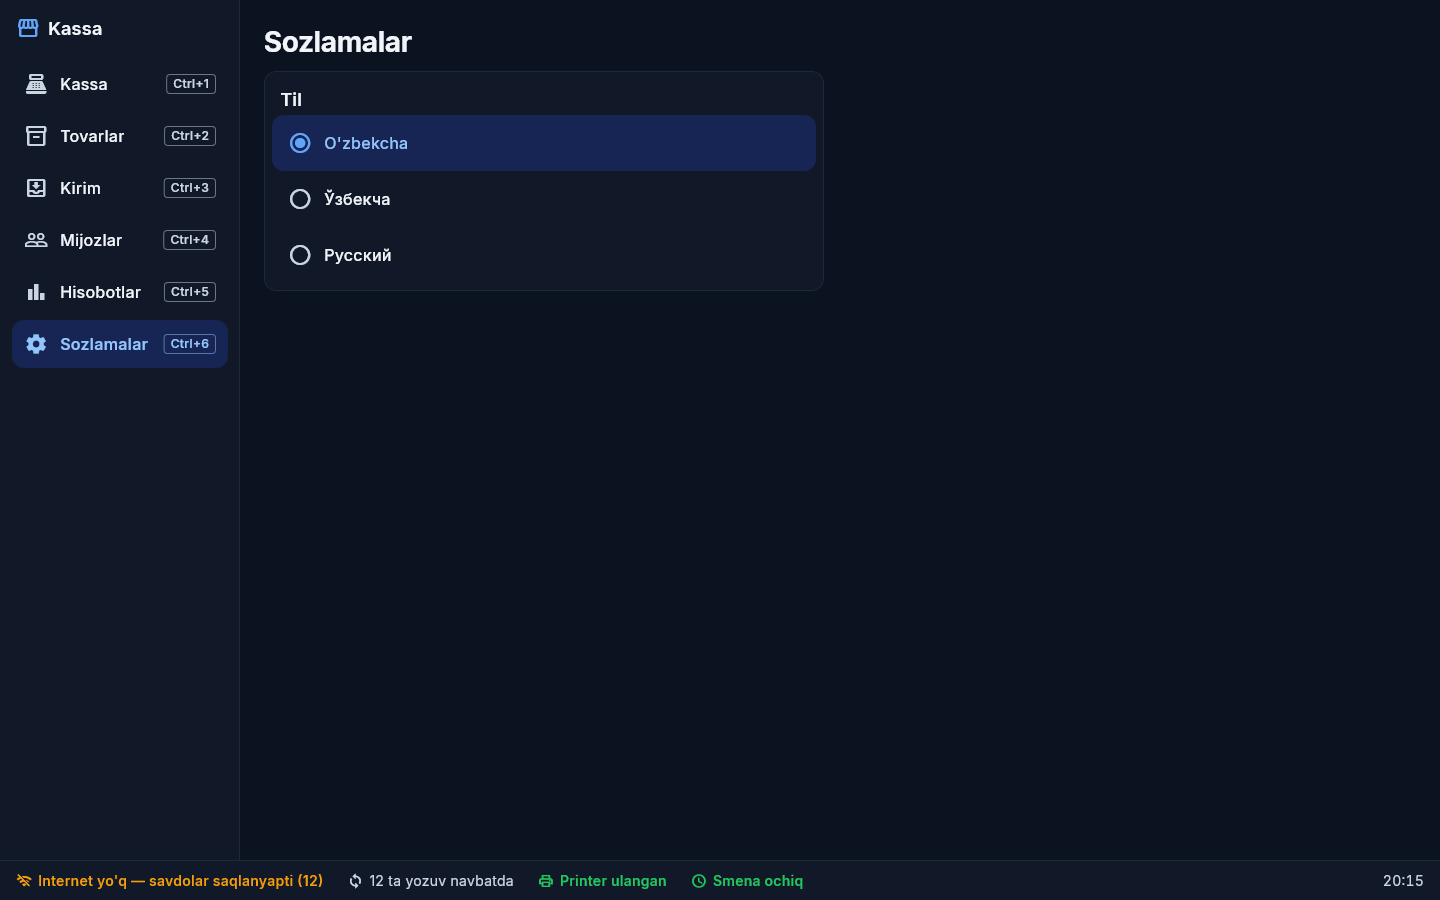
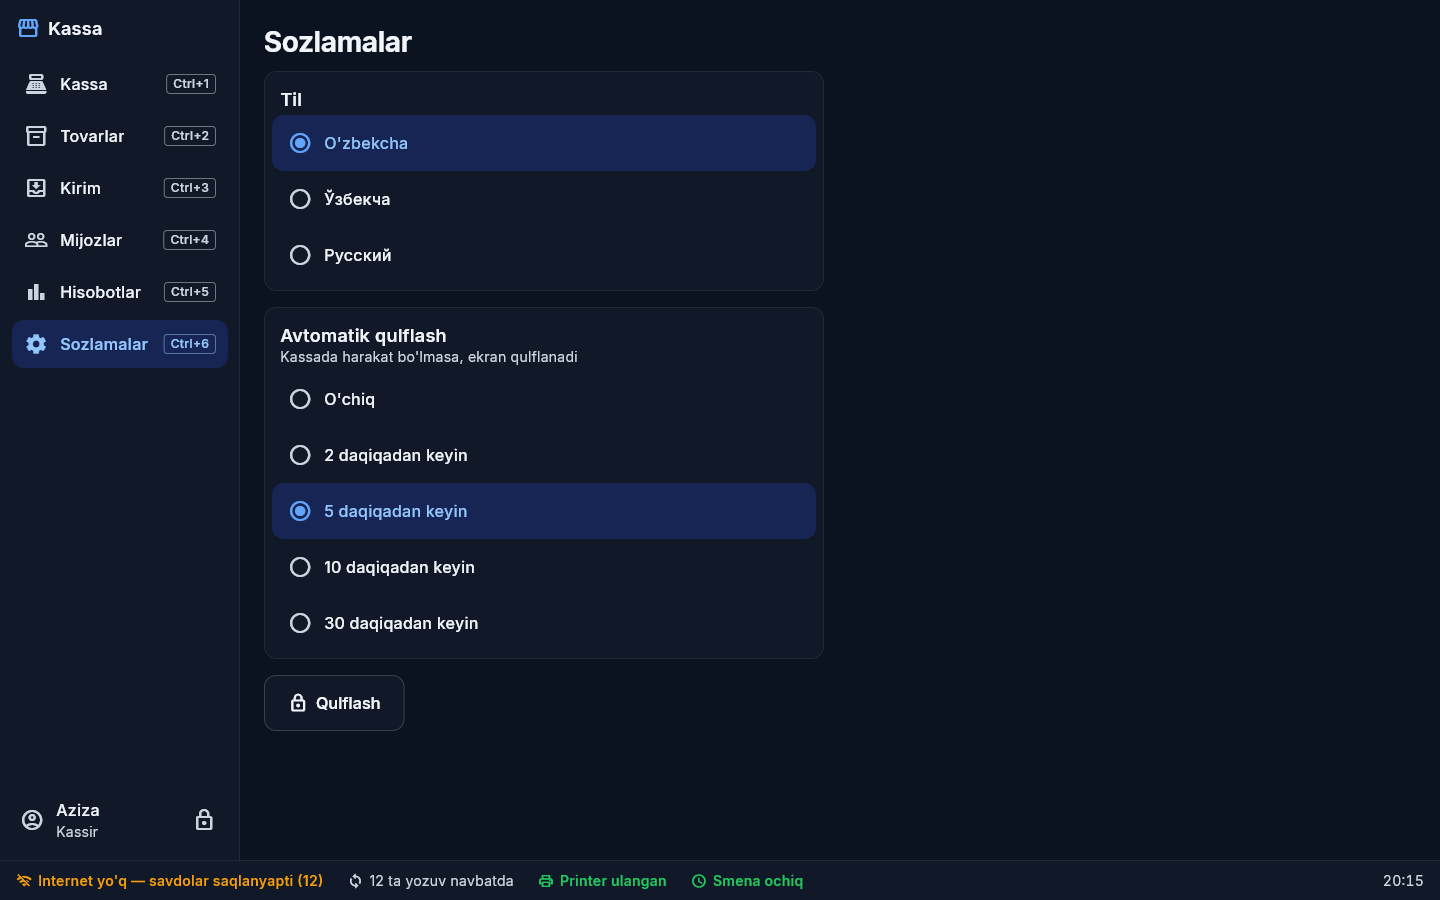
feat(pos): T-034 device setup, first sync, PIN login, auto-lock

diff --git a/apps/pos/test/goldens/app_shell_golden_test.dart b/apps/pos/test/goldens/app_shell_golden_test.dart
@@ -1,66 +1,32 @@
-import 'package:flutter/foundation.dart';
-import 'package:flutter/material.dart';
 import 'package:flutter/services.dart';
-import 'package:flutter_test/flutter_test.dart';
-import 'package:pos_app/app/app.dart';
 import 'package:pos_app/app/status/app_status.dart';
 
 import '../helpers/pump_app.dart';
+import 'golden_helpers.dart';
 
-/// Ilova qobig'i: telefon 390×844, planshet 1024×768, desktop 1440×900;
-/// yorug' va qorong'i (CLAUDE.md, 5-band).
-const Map<String, (Size, TargetPlatform)> devices = {
-  'phone': (Size(390, 844), TargetPlatform.android),
-  'tablet': (Size(1024, 768), TargetPlatform.android),
-  'desktop': (Size(1440, 900), TargetPlatform.windows),
-};
-
+/// Ilova qobig'i: kassa va sozlamalar.
 void main() {
-  for (final MapEntry(key: device, value: (size, platform))
-      in devices.entries) {
-    for (final dark in [false, true]) {
-      final theme = dark ? 'dark' : 'light';
-
-      for (final page in ['pos', 'settings']) {
-        testWidgets('$device $theme $page', (tester) async {
-          debugDisableShadows = false;
-          debugDefaultTargetPlatformOverride = platform;
-          tester.platformDispatcher.platformBrightnessTestValue = dark
-              ? Brightness.dark
-              : Brightness.light;
-          try {
-            await pumpPosApp(
-              tester,
-              size: size,
-              overrides: [
-                connectionStatusProvider.overrideWithValue(
-                  ConnectionStatus.offline,
-                ),
-                printerStatusProvider.overrideWithValue(PrinterStatus.ready),
-                pendingEventsProvider.overrideWith((ref) => Stream.value(12)),
-                shiftOpenProvider.overrideWith((ref) => Stream.value(true)),
-                clockProvider.overrideWithValue(
-                  () => DateTime.utc(2026, 10, 14, 15, 15),
-                ),
-              ],
-            );
-            if (page == 'settings') {
-              await tester.sendKeyDownEvent(LogicalKeyboardKey.controlLeft);
-              await tester.sendKeyEvent(LogicalKeyboardKey.digit6);
-              await tester.sendKeyUpEvent(LogicalKeyboardKey.controlLeft);
-              await tester.pumpAndSettle();
-            }
-            await expectLater(
-              find.byType(PosApp),
-              matchesGoldenFile('app_shell/${page}_${device}_$theme.png'),
-            );
-          } finally {
-            debugDisableShadows = true;
-            debugDefaultTargetPlatformOverride = null;
-            tester.platformDispatcher.clearPlatformBrightnessTestValue();
-          }
-        });
+  for (final page in ['pos', 'settings']) {
+    goldenAcrossDevices('app_shell', page, (tester, size) async {
+      await pumpPosApp(
+        tester,
+        size: size,
+        overrides: [
+          connectionStatusProvider.overrideWithValue(ConnectionStatus.offline),
+          printerStatusProvider.overrideWithValue(PrinterStatus.ready),
+          pendingEventsProvider.overrideWith((ref) => Stream.value(12)),
+          shiftOpenProvider.overrideWith((ref) => Stream.value(true)),
+          clockProvider.overrideWithValue(
+            () => DateTime.utc(2026, 10, 14, 15, 15),
+          ),
+        ],
+      );
+      if (page == 'settings') {
+        await tester.sendKeyDownEvent(LogicalKeyboardKey.controlLeft);
+        await tester.sendKeyEvent(LogicalKeyboardKey.digit6);
+        await tester.sendKeyUpEvent(LogicalKeyboardKey.controlLeft);
+        await tester.pumpAndSettle();
       }
-    }
+    });
   }
 }

diff --git a/apps/pos/test/goldens/auth_golden_test.dart b/apps/pos/test/goldens/auth_golden_test.dart
@@ -1,0 +1,77 @@
+import 'package:drift/drift.dart' show Value;
+import 'package:flutter_test/flutter_test.dart';
+import 'package:pos_app/app/session/pin_gate.dart';
+import 'package:pos_app/app/session/session.dart';
+import 'package:pos_app/data/db/app_database.dart';
+
+import '../helpers/pump_app.dart';
+import '../helpers/sqlite.dart';
+import 'golden_helpers.dart';
+
+Future<AppDatabase> _staff() async {
+  final db = openTestDatabase();
+  for (final (id, name, role, hasPin) in [
+    ('u1', 'Aziza Karimova', 'cashier', true),
+    ('u2', 'Bobur', 'manager', true),
+    ('u3', 'Dilnoza', 'cashier', false),
+    ('u4', 'Aziz Rahimov', 'owner', true),
+  ]) {
+    await db
+        .into(db.staffUsers)
+        .insert(
+          StaffUsersCompanion.insert(
+            id: id,
+            fullName: name,
+            role: role,
+            pinHash: Value(hasPin ? 'hash' : null),
+          ),
+        );
+  }
+  return db;
+}
+
+/// Kirish ekranlari: ulash, xodim tanlash, PIN (xato bilan).
+void main() {
+  goldenAcrossDevices('auth', 'setup', (tester, size) async {
+    await pumpPosApp(
+      tester,
+      size: size,
+      session: const Session(stage: SessionStage.setup),
+    );
+  });
+
+  goldenAcrossDevices('auth', 'lock_users', (tester, size) async {
+    final db = await _staff();
+    addTearDown(db.close);
+    await pumpPosApp(
+      tester,
+      size: size,
+      db: db,
+      session: const Session(stage: SessionStage.locked, device: testDevice),
+    );
+  });
+
+  goldenAcrossDevices('auth', 'lock_pin', (tester, size) async {
+    final db = await _staff();
+    addTearDown(db.close);
+    await pumpPosApp(
+      tester,
+      size: size,
+      db: db,
+      session: const Session(stage: SessionStage.locked, device: testDevice),
+      overrides: [
+        pinGateProvider.overrideWith(
+          (ref) => PinGate(db, verify: (_, _) async => false),
+        ),
+      ],
+    );
+    await tester.tap(find.text('Aziza Karimova'));
+    await tester.pumpAndSettle();
+    for (final d in ['1', '1', '1', '1']) {
+      await tester.tap(find.text(d).last);
+    }
+    await tester.tap(find.bySemanticsLabel('Kirish'));
+    await tester.pumpAndSettle();
+    expect(find.textContaining("PIN noto'g'ri"), findsOneWidget);
+  });
+}

diff --git a/apps/pos/test/goldens/golden_helpers.dart b/apps/pos/test/goldens/golden_helpers.dart
@@ -1,0 +1,44 @@
+import 'package:flutter/foundation.dart';
+import 'package:flutter/material.dart';
+import 'package:flutter_test/flutter_test.dart';
+import 'package:pos_app/app/app.dart';
+
+/// Golden o'lchamlari: telefon, planshet, desktop (CLAUDE.md, 5-band).
+const Map<String, (Size, TargetPlatform)> goldenDevices = {
+  'phone': (Size(390, 844), TargetPlatform.android),
+  'tablet': (Size(1024, 768), TargetPlatform.android),
+  'desktop': (Size(1440, 900), TargetPlatform.windows),
+};
+
+/// Har o'lcham × yorug'/qorong'i uchun test: [body] ilovani ochadi va
+/// kerakli holatga keltiradi, keyin `<dir>/<name>_<device>_<theme>.png`.
+void goldenAcrossDevices(
+  String dir,
+  String name,
+  Future<void> Function(WidgetTester tester, Size size) body,
+) {
+  for (final MapEntry(key: device, value: (size, platform))
+      in goldenDevices.entries) {
+    for (final dark in [false, true]) {
+      final theme = dark ? 'dark' : 'light';
+      testWidgets('$name $device $theme', (tester) async {
+        debugDisableShadows = false;
+        debugDefaultTargetPlatformOverride = platform;
+        tester.platformDispatcher.platformBrightnessTestValue = dark
+            ? Brightness.dark
+            : Brightness.light;
+        try {
+          await body(tester, size);
+          await expectLater(
+            find.byType(PosApp),
+            matchesGoldenFile('$dir/${name}_${device}_$theme.png'),
+          );
+        } finally {
+          debugDisableShadows = true;
+          debugDefaultTargetPlatformOverride = null;
+          tester.platformDispatcher.clearPlatformBrightnessTestValue();
+        }
+      });
+    }
+  }
+}

diff --git a/docs/PROGRESS.md b/docs/PROGRESS.md
@@ -141,3 +141,10 @@ Har vazifa yoki sessiya oxirida agent shu faylning oxiriga yozadi:
 - PR: T-033 (squash merge)
 - Qoldi / keyingi qadam: T-034 Kirish, qurilmani ulash, PIN ekrani. Internet/printer holati — T-035/T-044 da haqiqiy manbaga ulanadi (`connectionStatusProvider`, `printerStatusProvider`).
 - Muammo yoki qaror: go_router bo'lim navigatorlari fokus doirasi `closedLoop` — Tab bo'lim ichida aylanadi, yon panelga chiqmaydi (global `requestFocus: false` dialoglar fokusini buzadi). Shuning uchun bo'limlararo klaviatura — Ctrl+1…6. Telefonda `NavigationBar` "Sozlamalar" ni ikki qatorga bo'lardi → o'z paneli. Testda `runAsync` + drift stream osilib qoldi → bazaga yozish to'g'ridan-to'g'ri test tanasida.
+
+## 2026-10-14 — T-034 Kirish, qurilmani ulash, PIN ekrani
+- Qilindi: Dart API klient generatsiyasi sozlandi (`packages/api_client_dart`: swagger_parser + retrofit + json_serializable; auth, devices, sync). API faqat JSON (`DEFAULT_PARSER_CLASSES`) — generator multipart tanlamasin; `openapi.yaml` va admin `schema.d.ts` yangilandi. Kassada: `DeviceRegistration` (login → register, qayta urinishda o'sha ID, token `flutter_secure_storage` da), `PullApplier`/`SyncPuller` (barcha pull entity'lari, sahifa bitta tranzaksiyada, kursor/obuna/`offline_grace_until`/soat farqi), `PinHash` (PBKDF2, server vektorlari), `PinGate` (5 xato → 60 s, bazada), `Session` (setup → initialSync → locked → unlocked) va router redirect, `SetupScreen` (3 qadam + sinxron progress + qayta urinish), `LockScreen` (xodim tanlash + PinPad, fizik klaviatura, Esc), `AutoLock` (sozlanadigan), qobiqda xodim va qulf tugmasi. `PosPinPad`/`PosNumericKeypad` — ✓ tasdiqlash tugmasi (4–6 raqamli PIN).
+- Testlar: apps/pos 130 (+56): ro'yxatdan o'tish (xatolar, qayta urinish), pull (har entity, server g'olib, shtrix-kod ko'chishi, soft/hard delete, noma'lum entity, atomarlik, sahifalash, tarmoq uzilishi), PIN (RFC vektori, server vektorlari, noto'g'ri/buzilgan xesh, isolate), kirish oqimi end-to-end soxta server bilan, PIN 5 xato → kutish → tugashi, avtomatik qulflash, loadSession; 18 auth golden + 12 shell golden yangilandi. ui 133 (+2).
+- PR: T-034 (squash merge)
+- Qoldi / keyingi qadam: T-035 Sinxronlash dvigateli — push (outbox), fon tsikli (10 s / 60 s), ulanish kuzatuvi, eksponensial kutish, `readonly` rejim. Pull qismi shu vazifada qilindi (birinchi sinxron uchun kerak edi).
+- Muammo yoki qaror: swagger_parser bir nechta content-type bo'lsa multipart'ni tanlaydi → server JSON-only. PIN uzunligi xeshdan noma'lum → ✓/Enter bilan tasdiqlash. Widget testlarda PIN tekshiruvi soxta (`PinGate(verify:)`), haqiqiy PBKDF2 — unit testda.

diff --git a/docs/specs/devices.md b/docs/specs/devices.md
@@ -31,3 +31,10 @@ Bloklangan qurilma chegaraga kirmaydi (yo'qolgan qurilma o'rniga yangisini ulash
 - `GET /api/v1/devices/me/` (qurilma tokeni) → `{device, subscription: {status, paid_until, days_left, offline_days}, server_time}`. `last_seen_at` va `last_ip` yangilanadi.
 - `GET /api/v1/devices/`, `/devices/{id}/` (owner, manager) — o'z tenanti qurilmalari. Token/hash ko'rinmaydi.
 - Bloklash — hozircha platforma admini (Django admin); admin dashboard API — T-020.
+
+## Kassa tomoni (T-034)
+- **Birinchi ishga tushirish** (`/setup`): ega telefon + parol → kassa nomi (standart "Kassa 1") → `devices/register` → **birinchi sinxron** (pull, progress — yuklangan yozuvlar soni) → xodim tanlash. Ro'yxatdan o'tish `id` si javobdan oldin `LocalSettings.pending_device_id` ga yoziladi — javob kelmay qolsa, qayta urinish yangi qurilma yaratmaydi.
+- Token — `flutter_secure_storage` (`pos_device_token`); qurilma (`id`, `number` — chek prefiksi, `name`, `store`) — `LocalSettings`. Birinchi sinxron tugaganini `initial_sync_done` belgilaydi: ilova sinxron o'rtasida yopilsa, keyingi ochilishda sinxrondan davom etadi.
+- Xatolar ekranda: noto'g'ri telefon/parol, ega emas (menejer/kassir ulay olmaydi), qurilmalar chegarasi, obuna yo'q, qurilma bloklangan, internet yo'q.
+- Server manzili build paytida: `--dart-define=POS_API_URL=...` (standart — lokal `http://127.0.0.1:8100`).
+- API klient: `packages/api_client_dart` (`make api-clients` — swagger_parser + retrofit, faqat kassa endpoint'lari: auth, devices, sync). API faqat JSON qabul qiladi (`DEFAULT_PARSER_CLASSES = JSONParser`).

diff --git a/docs/STATE.md b/docs/STATE.md
@@ -5,9 +5,9 @@
 > Format qat'iy: bo'limlar nomini o'zgartirma.
 
 ## Joriy vazifa
-- Vazifa: T-034 Kirish, qurilmani ulash, PIN ekrani
-- Branch: feat/T-034-login-pin
-- Boshlangan: 2026-10-14
+- Vazifa: —
+- Branch: —
+- Boshlangan: —
 - Oxirgi yangilanish: 2026-10-14
 
 ## Qadamlar (vazifa ichida)
@@ -23,3 +23,4 @@
 - Flutter: golden'lar `packages/ui/widgetbook/test/goldens/` da, qayta yaratish `make ui-goldens` (faqat Windows). Xatolarni ko'rish: `flutter test --no-pub -r failures-only`. Bash'da `sed -i` ba'zan "Device or resource busy" beradi (Windows) — Edit vositasini ishlat.
 - Drift: build_runner "Tried to delete from package not in the build" bersa — `rm -rf apps/pos/.dart_tool/build` va qayta `dart run build_runner build`. Sxema o'zgarsa: `schemaVersion++`, `dart run drift_dev make-migrations`, `stepByStep` qadami.
 - Flutter widget testida `tester.runAsync` + drift stream osilib qoladi — bazaga yozishni test tanasida to'g'ridan-to'g'ri `await` qil. Osilgan test: `flutter test --timeout 30s -r expanded`.
+- API klient: `make api-clients` (backend sxema → admin TS + Dart: swagger_parser + build_runner `packages/api_client_dart`). Yangi endpoint kerak bo'lsa — `packages/api_client_dart/swagger_parser.yaml` `include_paths` ga qo'sh.

diff --git a/docs/specs/auth-roles.md b/docs/specs/auth-roles.md
@@ -19,3 +19,10 @@
 - `GET /api/v1/users/`, `/users/{id}/` — o'z tenanti xodimlari (manager va owner). Boshqa tenant foydalanuvchisi — `404`.
 - Login va refresh — throttle (`auth`: 20/daqiqa IP bo'yicha).
 - Model va PIN formati: `docs/decisions/0006-users-pin.md`.
+
+## Kassada PIN bilan kirish (T-034)
+- Qulf ekrani (`/lock`): faol xodimlar (pull'dan, `staff_users`) kartalari; PIN'i yo'q xodim — o'chiq ("PIN o'rnatilmagan"). PIN 4–6 raqam: ekran klaviaturasi yoki fizik klaviatura (raqamlar, numpad, Backspace), tasdiqlash — ✓ yoki Enter; Esc — boshqa xodim.
+- Tekshiruv oflayn (`PinHash`, PBKDF2-SHA256, alohida isolate'da), `testdata/pin_hash.json` vektorlari bilan server bilan bir xil.
+- **5 marta xato → 1 daqiqa kutish** (teskari sanoq ko'rinadi); hisoblagich va kutish muddati `LocalSettings` da — ilovani qayta ochish chetlab o'tmaydi. To'g'ri PIN hisoblagichni nolga tushiradi.
+- **Avtomatik qulflash**: ekranga tegish/tugma (skaner ham) bo'lmasa — sozlamadagi vaqtdan keyin (O'chiq, 2, 5 (standart), 10, 30 daqiqa). Qo'lda: yon paneldagi qulf tugmasi yoki Sozlamalar → "Qulflash".
+- PIN'dan keyin darhol kassa ekrani.

diff --git a/docs/ROADMAP.md b/docs/ROADMAP.md
@@ -123,7 +123,7 @@ Spec'lar: `design-system.md`, `sync.md`, `i18n.md`.
 - **Qabul:** 3 o'lchamda golden testlar; klaviatura bilan navigatsiya ishlaydi.
 - **Bog'liq:** T-030, T-031
 
-### [ ] T-034 Kirish, qurilmani ulash, PIN ekrani
+### [x] T-034 Kirish, qurilmani ulash, PIN ekrani
 - **Bajarish:** birinchi ishga tushishda: ega telefon+parol → qurilma nomi → birinchi sinxron (progress bilan). Keyin har safar: kassir tanlash + PIN (katta raqamli klaviatura). Avtomatik qulflash (sozlanadigan).
 - **Qabul:** oflaynda PIN bilan kirish ishlaydi; noto'g'ri PIN 5 marta — 1 daqiqa kutish.
 - **Bog'liq:** T-032, T-033, T-011
